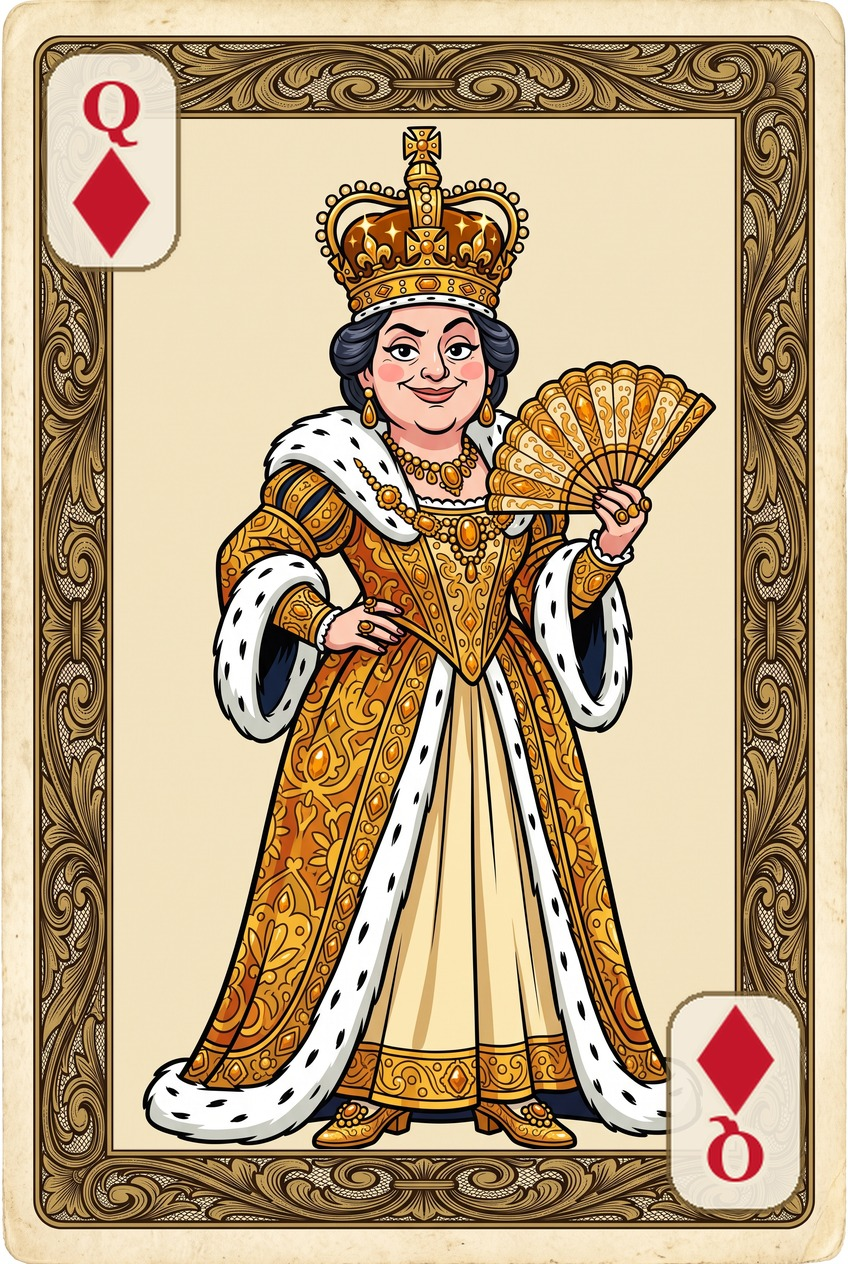
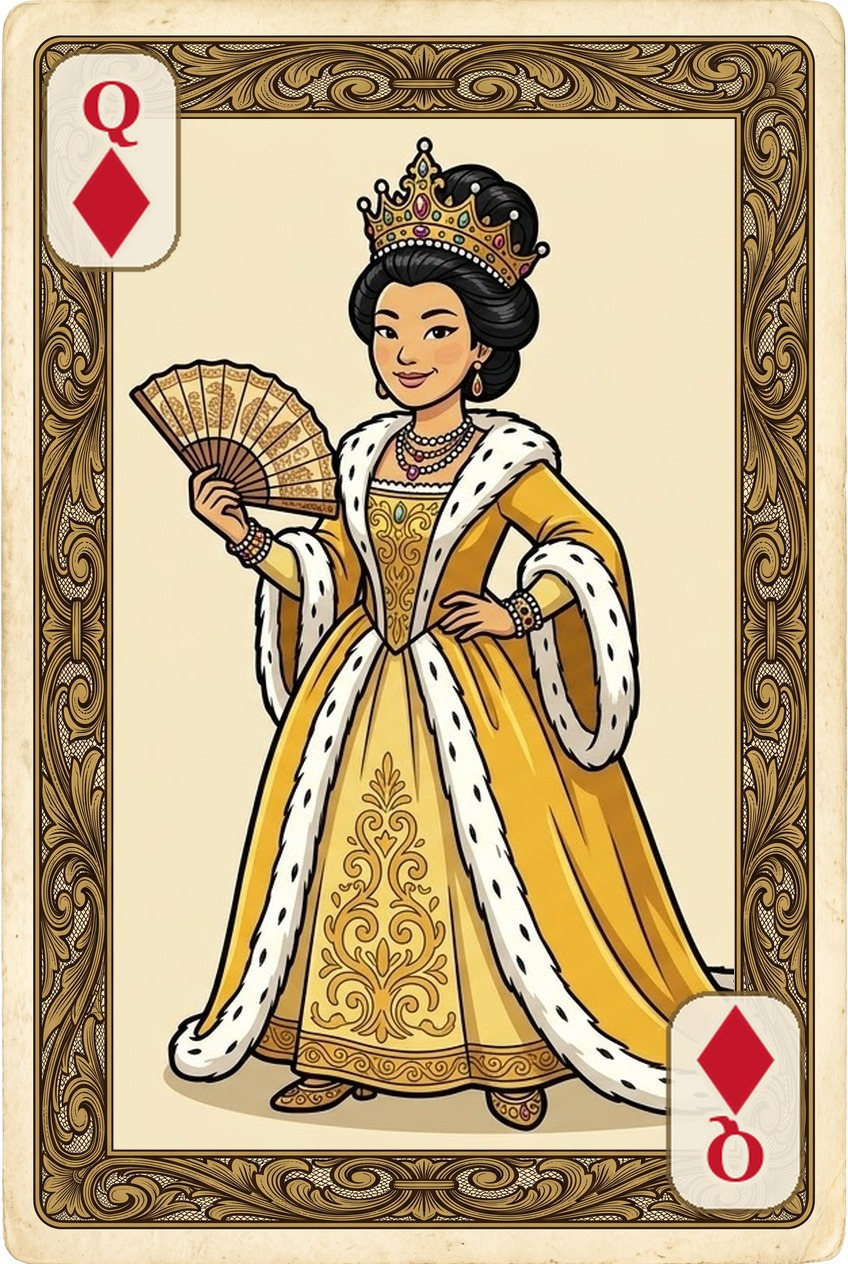
More diverse royalty, 6 diverse jokers, throne-room card back
Royalty swaps (replacing white figures), spread across suits:
- Hearts King -> East Asian (window-fall scene); regenerated to fix an
  extra leg that emerged from the first pass.
- Wheat King -> Black (scarecrow-in-the-wheat scene).
- Anvils Queen -> Black (bronze/forge robes).
- Diamonds Queen -> East Asian (gold robes), pairing with the Black
  Diamonds king.
Combined with the earlier pass, non-white court figures now span every
suit: Asian king+queen, Black kings/queens/bishop/general, plus the
Black hearts jack and three varied Black peasants.

Jokers:
- Replaced the single repeated 3-legged jester with SIX distinct,
  diverse court jesters (one per suit, suit-colored motley): South Asian
  man, Black woman, white man, East Asian woman, Middle Eastern man,
  Latina woman. All anatomically correct (two legs).
- The deck now has a joker per suit (6, was 4).
- Fixed inconsistent joker corner pads: rewrote joker_pad to the same
  uniform fixed-box badge geometry as the rest of the deck, so every
  joker's star+pip pad is identical in size (incl. anvils/wheat).

Card back:
- New throne-room design (toppled golden throne, fallen crowns on the
  red carpet, heraldic banners) inside the deck frame with the NO KINGS
  banners, replacing the plainer emblem back.

Also rebuilt the full TGC Poker print set (now 85 cards) and bumped SW
cache v0-32 -> v0-33.

diff --git a/assets/manifest.js b/assets/manifest.js
@@ -1,1 +1,1 @@
-window.ART={"cartoon":["anvils-10","anvils-2","anvils-3","anvils-4","anvils-5","anvils-6","anvils-7","anvils-8","anvils-9","anvils-A","anvils-J","anvils-K","anvils-Q","back","clubs-10","clubs-2","clubs-3","clubs-4","clubs-5","clubs-6","clubs-7","clubs-8","clubs-9","clubs-A","clubs-J","clubs-K","clubs-Q","diamonds-10","diamonds-2","diamonds-3","diamonds-4","diamonds-5","diamonds-6","diamonds-7","diamonds-8","diamonds-9","diamonds-A","diamonds-J","diamonds-K","diamonds-Q","hearts-10","hearts-2","hearts-3","hearts-4","hearts-5","hearts-6","hearts-7","hearts-8","hearts-9","hearts-A","hearts-J","hearts-K","hearts-Q","joker-clubs","joker-diamonds","joker-hearts","joker-spades","spades-10","spades-2","spades-3","spades-4","spades-5","spades-6","spades-7","spades-8","spades-9","spades-A","spades-J","spades-K","spades-Q","wheat-10","wheat-2","wheat-3","wheat-4","wheat-5","wheat-6","wheat-7","wheat-8","wheat-9","wheat-A","wheat-J","wheat-K","wheat-Q"]};
+window.ART={"cartoon":["anvils-10","anvils-2","anvils-3","anvils-4","anvils-5","anvils-6","anvils-7","anvils-8","anvils-9","anvils-A","anvils-J","anvils-K","anvils-Q","back","clubs-10","clubs-2","clubs-3","clubs-4","clubs-5","clubs-6","clubs-7","clubs-8","clubs-9","clubs-A","clubs-J","clubs-K","clubs-Q","diamonds-10","diamonds-2","diamonds-3","diamonds-4","diamonds-5","diamonds-6","diamonds-7","diamonds-8","diamonds-9","diamonds-A","diamonds-J","diamonds-K","diamonds-Q","hearts-10","hearts-2","hearts-3","hearts-4","hearts-5","hearts-6","hearts-7","hearts-8","hearts-9","hearts-A","hearts-J","hearts-K","hearts-Q","joker-anvils","joker-clubs","joker-diamonds","joker-hearts","joker-spades","joker-wheat","spades-10","spades-2","spades-3","spades-4","spades-5","spades-6","spades-7","spades-8","spades-9","spades-A","spades-J","spades-K","spades-Q","wheat-10","wheat-2","wheat-3","wheat-4","wheat-5","wheat-6","wheat-7","wheat-8","wheat-9","wheat-A","wheat-J","wheat-K","wheat-Q"]};

diff --git a/sw.js b/sw.js
@@ -1,4 +1,4 @@
-const CACHE='nokings-v0-32';
+const CACHE='nokings-v0-33';
 const ASSETS=['./','index.html','manifest.json'];
 self.addEventListener('install',e=>{e.waitUntil(caches.open(CACHE).then(c=>c.addAll(ASSETS)).then(()=>self.skipWaiting()));});
 self.addEventListener('activate',e=>{e.waitUntil(caches.keys().then(ks=>Promise.all(ks.filter(k=>k!==CACHE).map(k=>caches.delete(k)))).then(()=>self.clients.claim()));});
